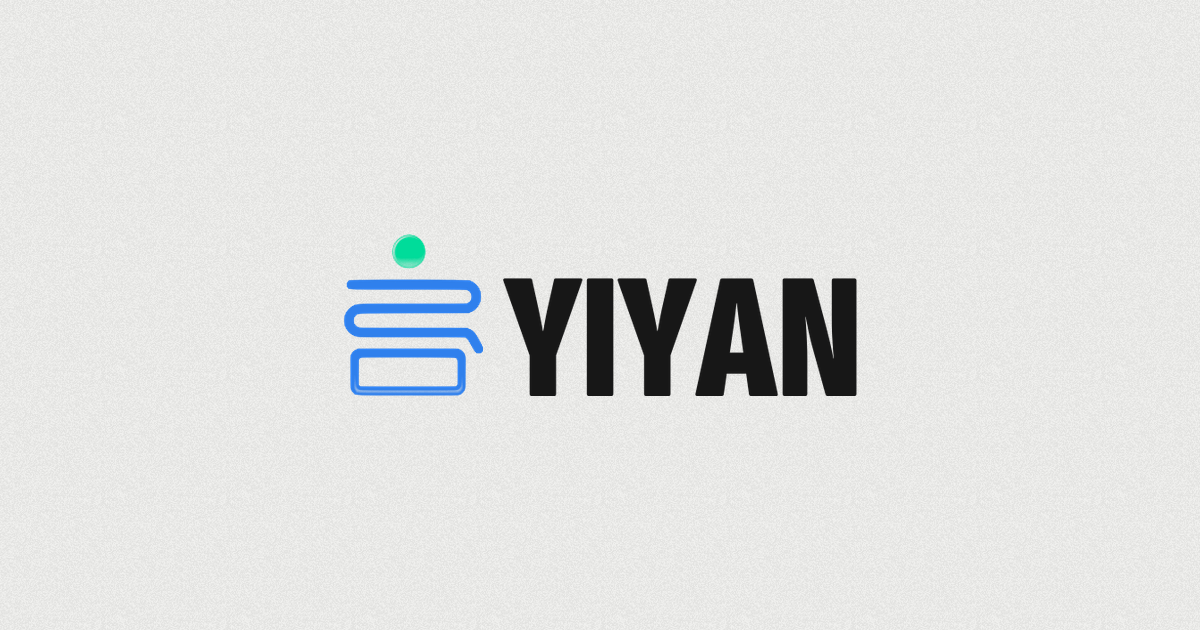
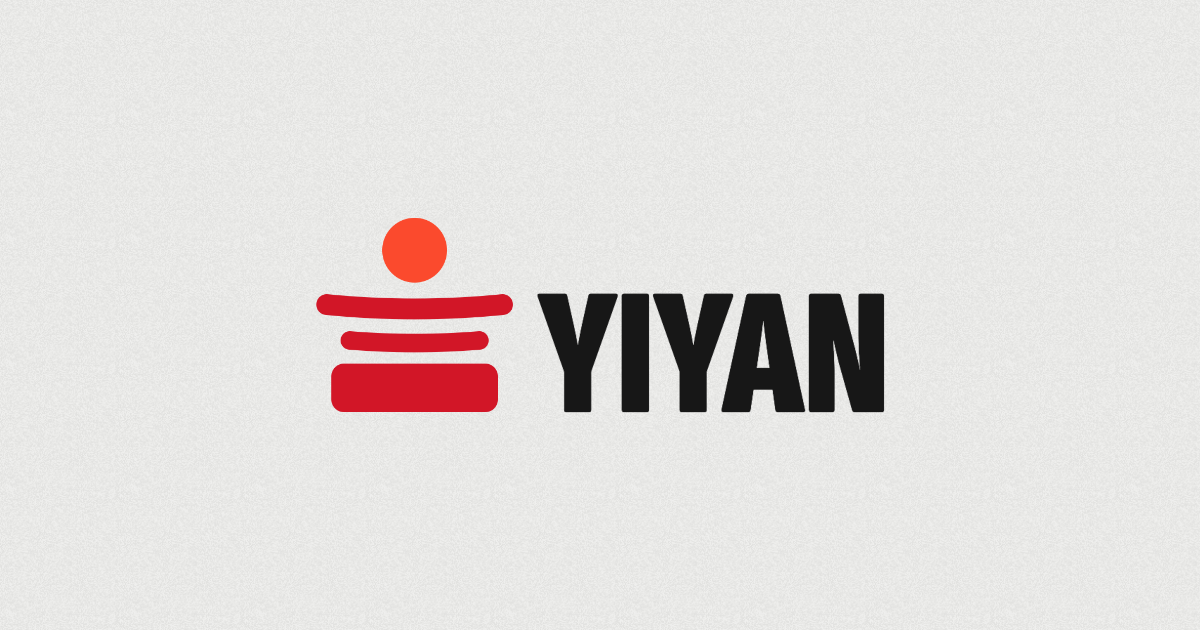
Refresh site branding, product screenshots, and layouts

Changed region(s): [[0.2467, 0.3317, 0.74, 0.6635]]

diff --git a/src/assets/s/site.css b/src/assets/s/site.css
@@ -168,7 +168,10 @@ p,li,dd{text-wrap:pretty;overflow-wrap:anywhere}
   60%  { background-position: -0.3em -0.4em;}
   80%  { background-position: 0.2em 0.5em;}
 }
-.hero{padding-top:var(--safe-top);padding-bottom:clamp(24px,4vw,56px)}
+.hero{
+  container-type:inline-size;
+  padding-top:calc(var(--safe-top) + clamp(32px,5vw,64px));
+}
 .topbar{
   display:grid;grid-template-columns:minmax(0,1fr) auto minmax(0,1fr);align-items:center;gap:1rem;
   min-height:48px;padding-top:var(--safe-top);
@@ -206,26 +209,13 @@ footer{padding-bottom:env(safe-area-inset-bottom,0px)}
   .locale__short{display:inline}
 }
 
-.wordmark{
-  margin-top:32px;display:block;width:100%;white-space:nowrap;
-  font-size:clamp(58px,18vw,252px);
-}
+.hero__brand{font-size:clamp(58px,22cqw,252px)}
+.wordmark{display:block;white-space:nowrap;text-box:trim-both cap alphabetic}
 .wordmark i,.topbar__app i{
   display:inline-block;width:.13em;height:.13em;border-radius:50%;
   background:var(--accent);vertical-align:.05em;margin-left:.05em;
 }
-.hero__pitch{
-  margin-top:clamp(28px,4vw,56px);
-  display:grid;grid-template-columns:minmax(0,1.15fr) minmax(0,1fr);
-  gap:clamp(24px,4vw,64px);align-items:end;
-}
-.hero__h1{font-size:clamp(28px,3.5vw,50px);max-width:22em}
-.hero__sub{margin-top:1.125rem;font-size:1.0625rem;color:var(--muted);max-width:30em}
-.hero__side{display:grid;gap:1.5rem;justify-items:start}
-.hero__trust{display:grid;gap:.5rem;margin:0;padding:0;list-style:none}
-.hero__trust li{display:flex;align-items:center;gap:.6em;font:400 .6875rem/1.4 var(--mono);text-transform:uppercase;letter-spacing:.09em;color:var(--muted)}
-.hero__trust svg{width:14px;height:14px;color:var(--accent);flex:none}
-@media (max-width:860px){.hero__pitch{grid-template-columns:1fr;align-items:start}}
+.hero__sub{margin-top:clamp(18px,2vw,28px);font-size:1.0625rem;color:var(--muted);max-width:30em}
 
 .next{
   margin-top:clamp(88px,11vw,240px);padding-top:clamp(32px,4vw,56px);border-top:1px solid var(--line);
@@ -258,9 +248,10 @@ footer{padding-bottom:env(safe-area-inset-bottom,0px)}
 .base__identity{display:grid;justify-items:start;gap:8px}
 .base__wordmark{
   position:relative;display:block;
-  font:700 30px/36px var(--sans);letter-spacing:-.065em;white-space:nowrap;
+  font:700 30px/1 var(--sans);letter-spacing:-.065em;white-space:nowrap;
 }
 .base__wordmark::before{content:"";position:absolute;inset-inline:0;bottom:0;height:44px}
+.base__tagline{font:400 .6875rem/1.4 var(--sans);color:oklch(.54 0 0);white-space:nowrap}
 .base__sun{--sun-color:var(--accent);width:64px;height:64px;flex:none;pointer-events:none;user-select:none}
 .base__face{display:block;width:100%;height:100%;transform:rotate(-12deg)}
 .base__sun-rays{transform-origin:32px 32px;animation:footer-sun-rays 24s linear infinite paused}
@@ -285,7 +276,7 @@ footer{padding-bottom:env(safe-area-inset-bottom,0px)}
 @media (max-width:560px){
   .base{margin-top:40px}
   .base__legal{gap:14px}
-  .base__wordmark{font-size:28px;line-height:32px}
+  .base__wordmark{font-size:28px}
   .base__sun{width:60px;height:60px}
 }
 @media (prefers-reduced-motion:reduce){
